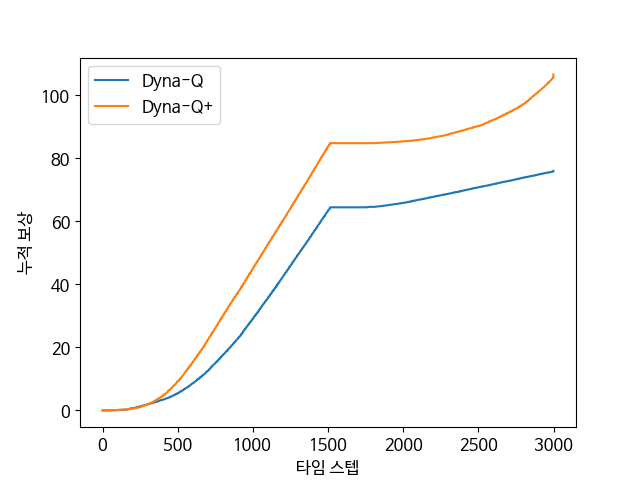
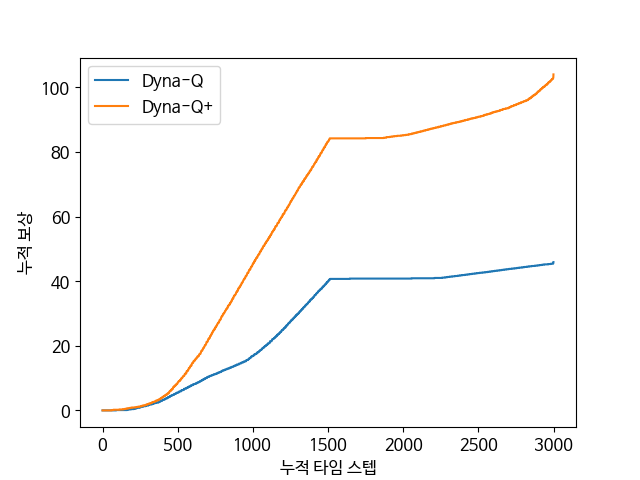
...

diff --git a/chapter_08/maze_dyna.py b/chapter_08/maze_dyna.py
@@ -103,7 +103,7 @@ class SimpleModel:
 class TimeModel:
     # @all_actions: 모든 행동 집합 [UP, DOWN, LEFT, RIGHT]
     # @time_weight: 샘플링된 보상에 대하여 경과 시간에 대한 가중치
-    def __init__(self, all_actions, time_weight=1e-4):
+    def __init__(self, all_actions, time_weight=0.0001):
         self.model = dict()
 
         # 전체 타임 스텝 진행 기록
@@ -113,19 +113,19 @@ class TimeModel:
 
     # 경험 샘플 저장
     def store(self, state, action, reward, next_state):
-        self.time += 1
-
         if state not in self.model:
             self.model[state] = dict()
 
-            # 임의의 상태에 대하여 선택되어지지 않은 행동들에 대해서도 계획 단계에 고려가 되도록 함
+            # 임의의 상태에 대하여 선택되어지지 않은 행동들에 대해서도
+            # 계획 단계에 고려되도록 유도
             for action_ in self.all_actions:
                 if action_ != action:
-                    # 그러한 행동들은 행동 수행 이후에 상태가 변동 없으며 보상은 0로 설정
-                    # 타임 스텝의 최소값은 0이 아니라 1
-                    self.model[state][action_] = [0, state, 1]
+                    # 그러한 행동들은 행동 수행 이후에 상태가 변동 없으며
+                    # 보상은 0로 설정
+                    self.model[state][action_] = [0, state, 0]
 
         self.model[state][action] = [reward, next_state, self.time]
+        self.time += 1
 
     # 저장해 둔 경험 샘플들에서 임으로 선택하여 반환
     def sample(self):
@@ -135,7 +135,8 @@ class TimeModel:
 
         # 모델에 기록된 방문 시각과 현재 시각 사이의 차가 클 수록,
         # 즉 오래전에 기록된 모델 정보일 수록 reward가 커지도록 조정함.
-        # 따라서, 오래전에 경험해보고 최근에 경험해보지 못한 상태-행동 쌍이 좀 더 자주 발현되도록 유도함
+        # 따라서, 오래전에 경험해보고 최근에 경험해보지 못한
+        # 상태-행동 쌍이 좀 더 자주 발현되도록 유도함
         reward += self.time_weight * np.sqrt(self.time - time)
 
         return state, action, reward, next_state
@@ -193,14 +194,12 @@ class PriorityModel(SimpleModel):
 def dyna_q(q_value, model, dyna_maze):
     state = dyna_maze.START_STATE
     steps = 0
-    cumulative_rewards = 0.0
+    rewards = 0.0
     while state not in dyna_maze.GOAL_STATES:
         # 타임 스텝 기록
         steps += 1
-
         # 행동 얻어오기
         action = choose_action(state, q_value, dyna_maze)
-
         # 행동 수행후
         reward, next_state = dyna_maze.step(state, action)
 
@@ -218,13 +217,13 @@ def dyna_q(q_value, model, dyna_maze):
             q_value[state_[0], state_[1], action_] += DynaQParams.alpha * (target - q_value[state_[0], state_[1], action_])
 
         state = next_state
-        cumulative_rewards += reward
+        rewards += reward
 
         # 최대 스텝 체크
         if steps > dyna_maze.max_steps:
             break
 
-    return steps, cumulative_rewards
+    return steps, rewards
 
 
 # play for an episode for prioritized sweeping algorithm
@@ -335,8 +334,7 @@ def draw_image(dyna_maze, q_value, run, planning_step, episode):
 
 
 def maze_dyna_q():
-    # set up an instance for DynaMaze
-    dyna_maze = Maze()
+    dyna_maze = Maze() # 미로 환경 객체 구성
 
     episodes = 30
     planning_steps = [0, 3, 30]
@@ -347,7 +345,7 @@ def maze_dyna_q():
             DynaQParams.planning_steps = planning_step
             q_value = np.zeros(dyna_maze.q_size)
 
-            # generate an instance of Dyna-Q model
+            # Dyna-Q를 위한 단순 모델 생성
             model = SimpleModel()
             for episode in range(episodes):
                 #print('run:', run, 'planning step:', planning_step, 'episode:', episode)
@@ -392,12 +390,12 @@ def maze_dyna_q_2(dyna_maze):
             last_steps = steps
             while steps < dyna_maze.max_steps:
                 # play for an episode
-                steps_, cumulative_rewards_ = dyna_q(q_values[method_idx], models[method_idx], dyna_maze)
+                steps_, rewards = dyna_q(q_values[method_idx], models[method_idx], dyna_maze)
                 steps += steps_
 
                 # update cumulative rewards
                 cumulative_rewards[run, method_idx, last_steps: steps] = cumulative_rewards[run, method_idx, last_steps]
-                cumulative_rewards[run, method_idx, min(steps, dyna_maze.max_steps - 1)] = cumulative_rewards[run, method_idx, last_steps] + cumulative_rewards_
+                cumulative_rewards[run, method_idx, min(steps, dyna_maze.max_steps - 1)] = cumulative_rewards[run, method_idx, last_steps] + rewards
                 last_steps = steps
 
                 if steps > dyna_maze.obstacle_switch_time:
@@ -406,16 +404,17 @@ def maze_dyna_q_2(dyna_maze):
 
                 # print(DynaQParams.methods[method_idx], steps, dyna_maze.obstacles)
 
-    # averaging over runs
+    # 전체 수행(runs)에 대하여 평균 산출
     rewards = cumulative_rewards.mean(axis=0)
 
     return rewards
 
-
+# 장애물 위치가 변하는 미로 환경에서의 Dyna-Q 및 Dyna-Q+ 성능 비교
 def changing_maze_dyna_q():
     # 장애물 구성 변경 미로 환경 구성
     changing_maze = ChangingMaze()
     changing_maze.original_obstacles = [(3, i) for i in range(0, 9)]
+    changing_maze.obstacles = changing_maze.original_obstacles
 
     # 최적 경로를 가로 막는 새로운 장애물 구성
     changing_maze.new_obstacles = [(3, i) for i in range(1, 10)]
@@ -426,21 +425,21 @@ def changing_maze_dyna_q():
     # 장애물 구성이 변경되는 스텝 설정
     changing_maze.obstacle_switch_time = 1500
 
-    # set up parameters
+    # 파라미터 설정
     DynaQParams.alpha = 1.0
     DynaQParams.planning_steps = 10
-    DynaQParams.runs = 20
+    DynaQParams.runs = 10
 
     # 시간 기반 모델에 사용할 파라미터
-    DynaQParams.time_weight = 1e-4
+    DynaQParams.time_weight = 0.0001
 
     # 훈련 후 누적 보상 획득
-    rewards = maze_dyna_q_2(changing_maze)
+    cumulative_rewards = maze_dyna_q_2(changing_maze)
 
     for i in range(len(DynaQParams.methods)):
-        plt.plot(rewards[i, :], label=DynaQParams.methods[i])
+        plt.plot(cumulative_rewards[i, :], label=DynaQParams.methods[i])
 
-    plt.xlabel('타임 스텝')
+    plt.xlabel('누적 타임 스텝')
     plt.ylabel('누적 보상')
     plt.legend()
 
@@ -448,42 +447,42 @@ def changing_maze_dyna_q():
     plt.close()
 
 
-# Figure 8.5, ShortcutMaze
-def figure_8_5():
-    # set up a shortcut dyna_maze instance
+# 지름길이 발생하는 미로 환경에서의 Dyna-Q 및 Dyna-Q+ 성능 비교
+def shortcut_maze_dyna_q():
+    # 시작 위치, 목적지 위치 및 장애물 설정
     shortcut_maze = ChangingMaze()
-    shortcut_maze.START_STATE = [5, 3]
-    shortcut_maze.GOAL_STATES = [[0, 8]]
-    shortcut_maze.old_obstacles = [(3, i) for i in range(1, 9)]
+    shortcut_maze.GOAL_STATES = [(5, 1)]
+    shortcut_maze.original_obstacles = [(3, i) for i in range(0, 9)]
+    shortcut_maze.obstacles = shortcut_maze.original_obstacles
 
-    # new obstacles will have a shorter path
-    shortcut_maze.new_obstacles = [(3, i) for i in range(1, 8)]
+    # 지름길을 만들어 주는 새로운 장애물 구성
+    shortcut_maze.new_obstacles = [(3, i) for i in range(1, 10)]
 
-    # step limit
+    # 최대 스텝 설정
     shortcut_maze.max_steps = 6000
 
-    # obstacles will change after 3000 steps
-    # the exact step for changing will be different
-    # However given that 3000 steps is long enough for both algorithms to converge,
-    # the difference is guaranteed to be very small
+    # 장애물 구성이 변경되는 스텝 설정
     shortcut_maze.obstacle_switch_time = 3000
 
-    # 50-step planning
-    DynaQParams.planning_steps = 50
-    DynaQParams.runs = 5
-    DynaQParams.time_weight = 1e-3
+    # 파라미터 설정
     DynaQParams.alpha = 1.0
+    DynaQParams.planning_steps = 10
+    DynaQParams.runs = 10
 
-    # play
-    rewards = maze_dyna_q_2(shortcut_maze)
+    # 시간 기반 모델에 사용할 파라미터
+    DynaQParams.time_weight = 0.0001
+
+    # 훈련 후 누적 보상 획득
+    cumulative_rewards = maze_dyna_q_2(shortcut_maze)
 
     for i in range(len(DynaQParams.methods)):
-        plt.plot( rewards[i, :], label=DynaQParams.methods[i])
-    plt.xlabel('time steps')
-    plt.ylabel('cumulative reward')
+        plt.plot(cumulative_rewards[i, :], label=DynaQParams.methods[i])
+
+    plt.xlabel('누적 타임 스텝')
+    plt.ylabel('누적 보상')
     plt.legend()
 
-    plt.savefig('images/figure_8_5.png')
+    plt.savefig('images/shortcut_maze_dyna_q.png')
     plt.close()
 
 
@@ -587,5 +586,5 @@ def example_8_4():
 if __name__ == '__main__':
     #maze_dyna_q()
     changing_maze_dyna_q()
-    # figure_8_5()
+    shortcut_maze_dyna_q()
     # example_8_4()

diff --git a/chapter_08/maze.py b/chapter_08/maze.py
@@ -68,7 +68,7 @@ class Maze:
 class ChangingMaze(Maze):
     def __init__(self):
         super(ChangingMaze, self).__init__()
-        self.original_obstacles = self.obstacles
+        self.original_obstacles = None
         self.new_obstacles = None
 
         # 장애물을 변경하는 타임 스텝
